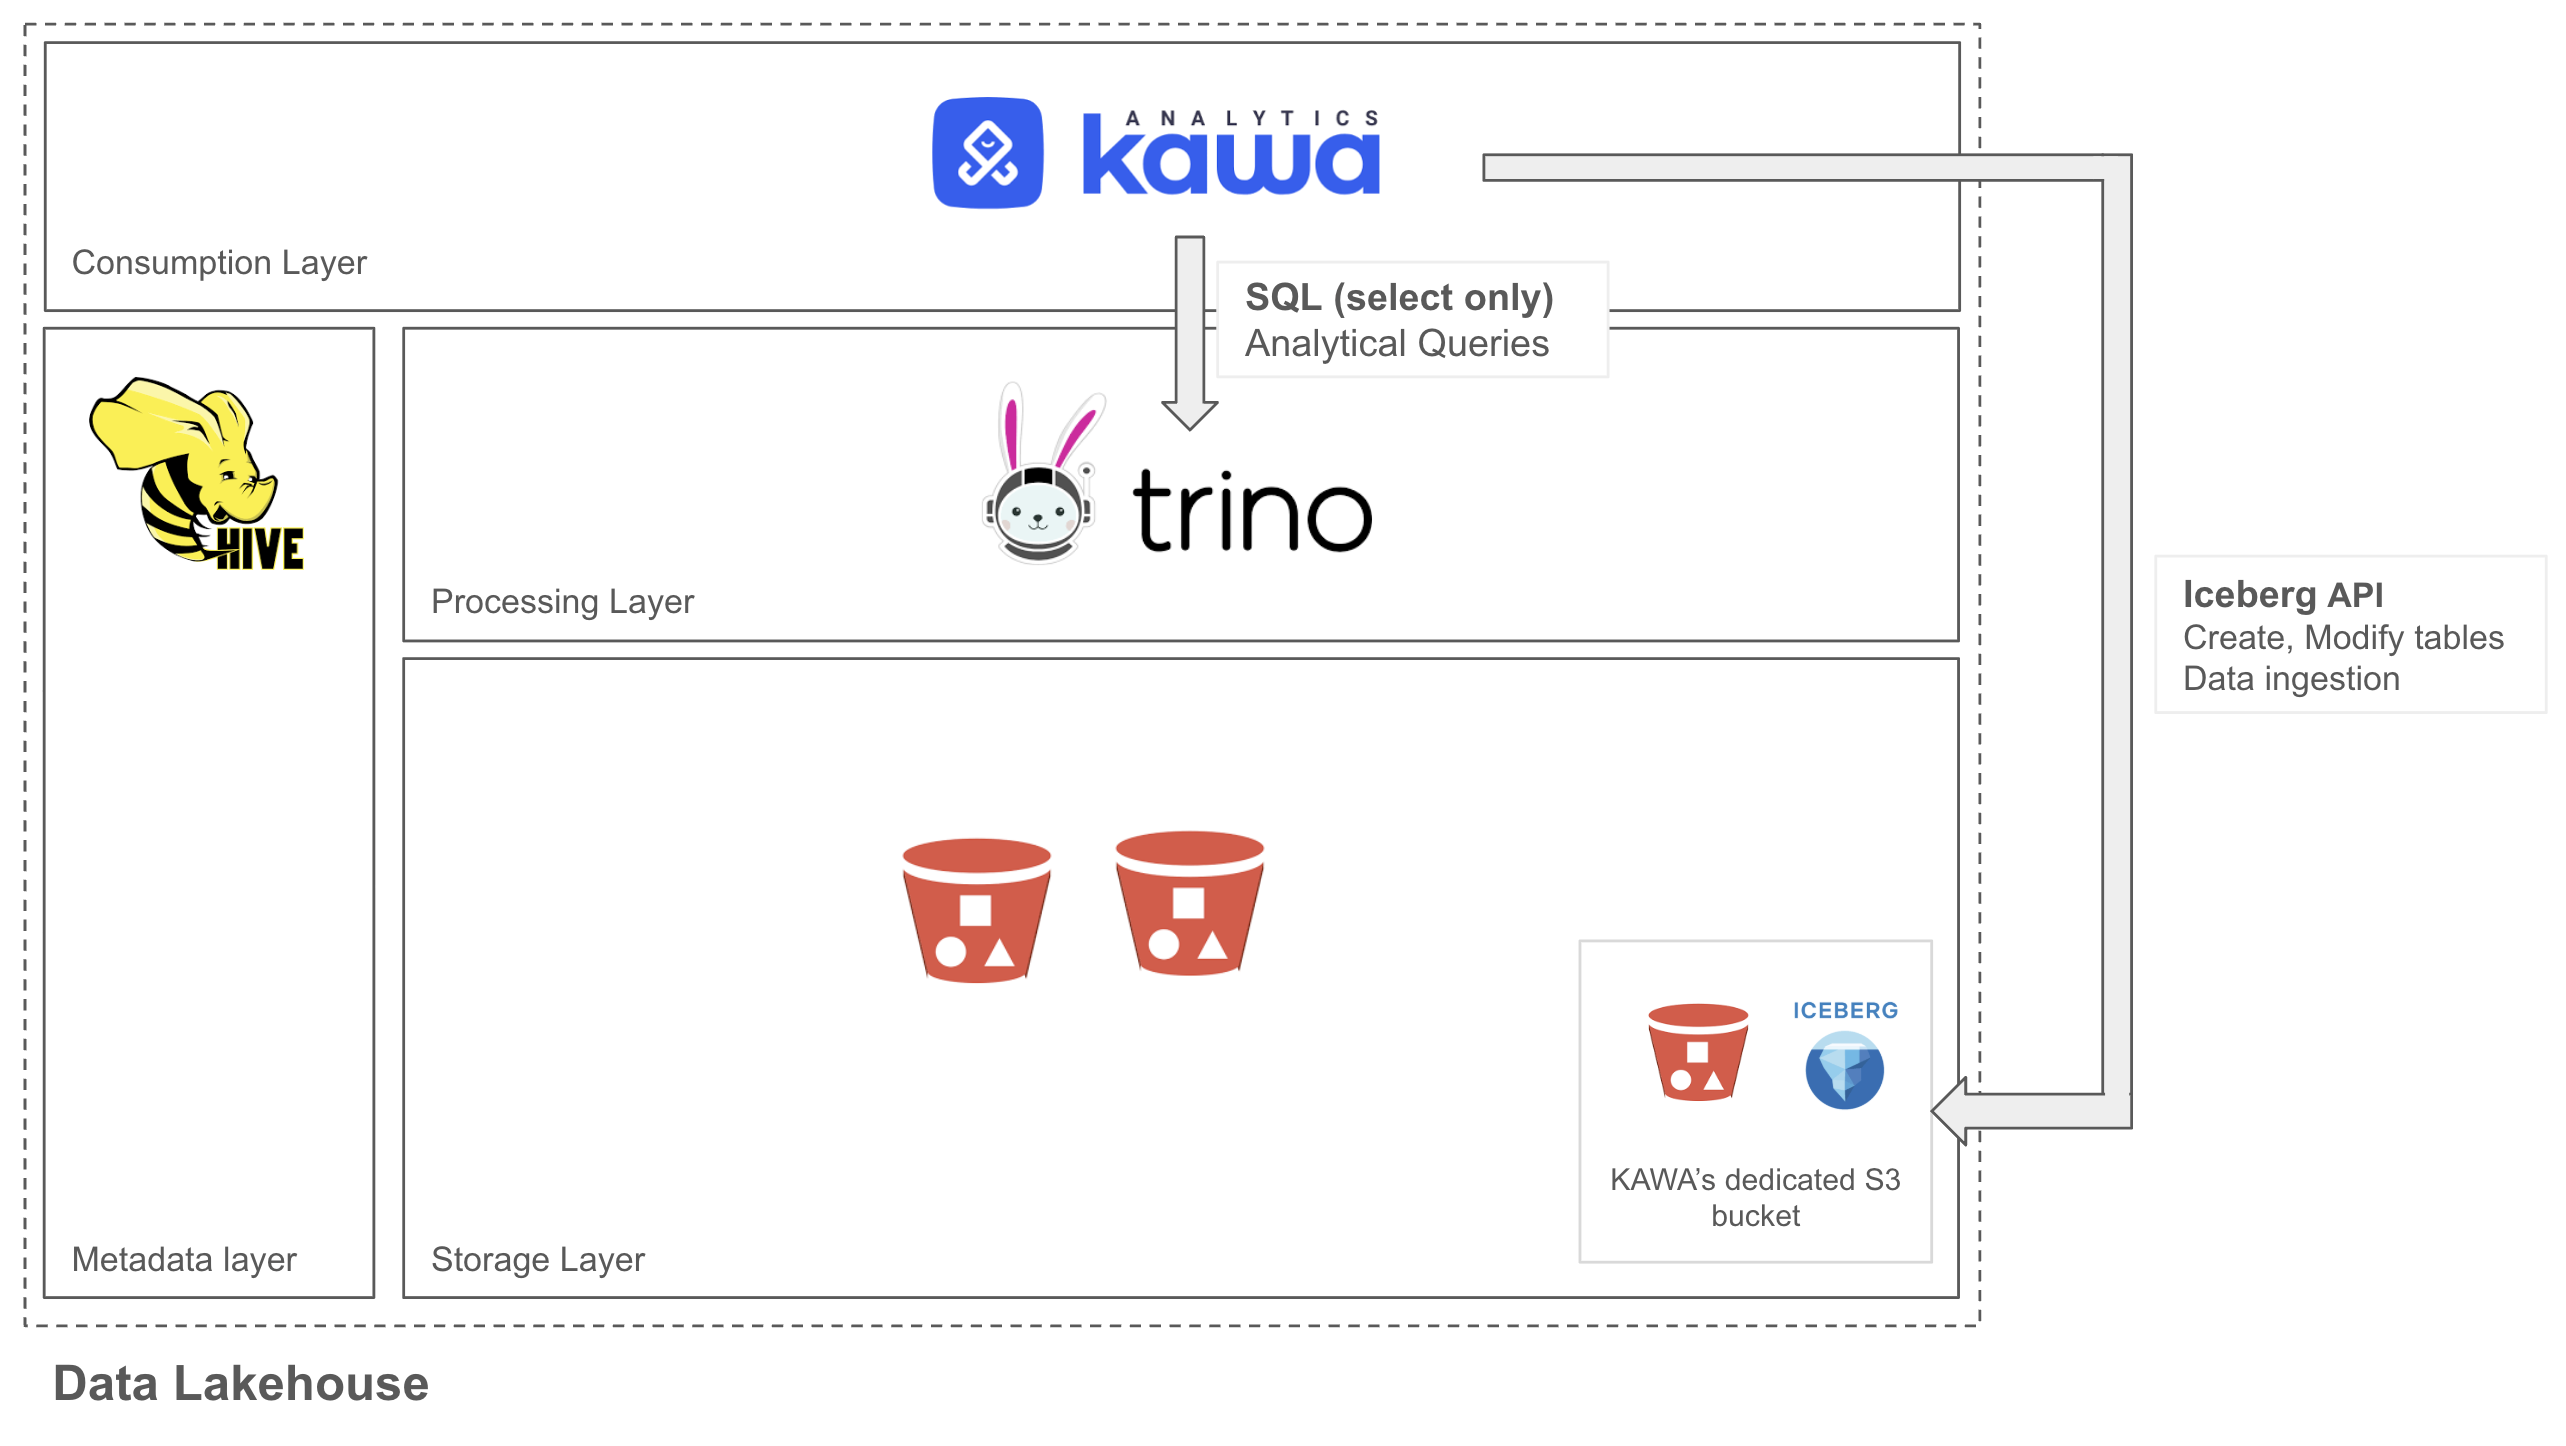
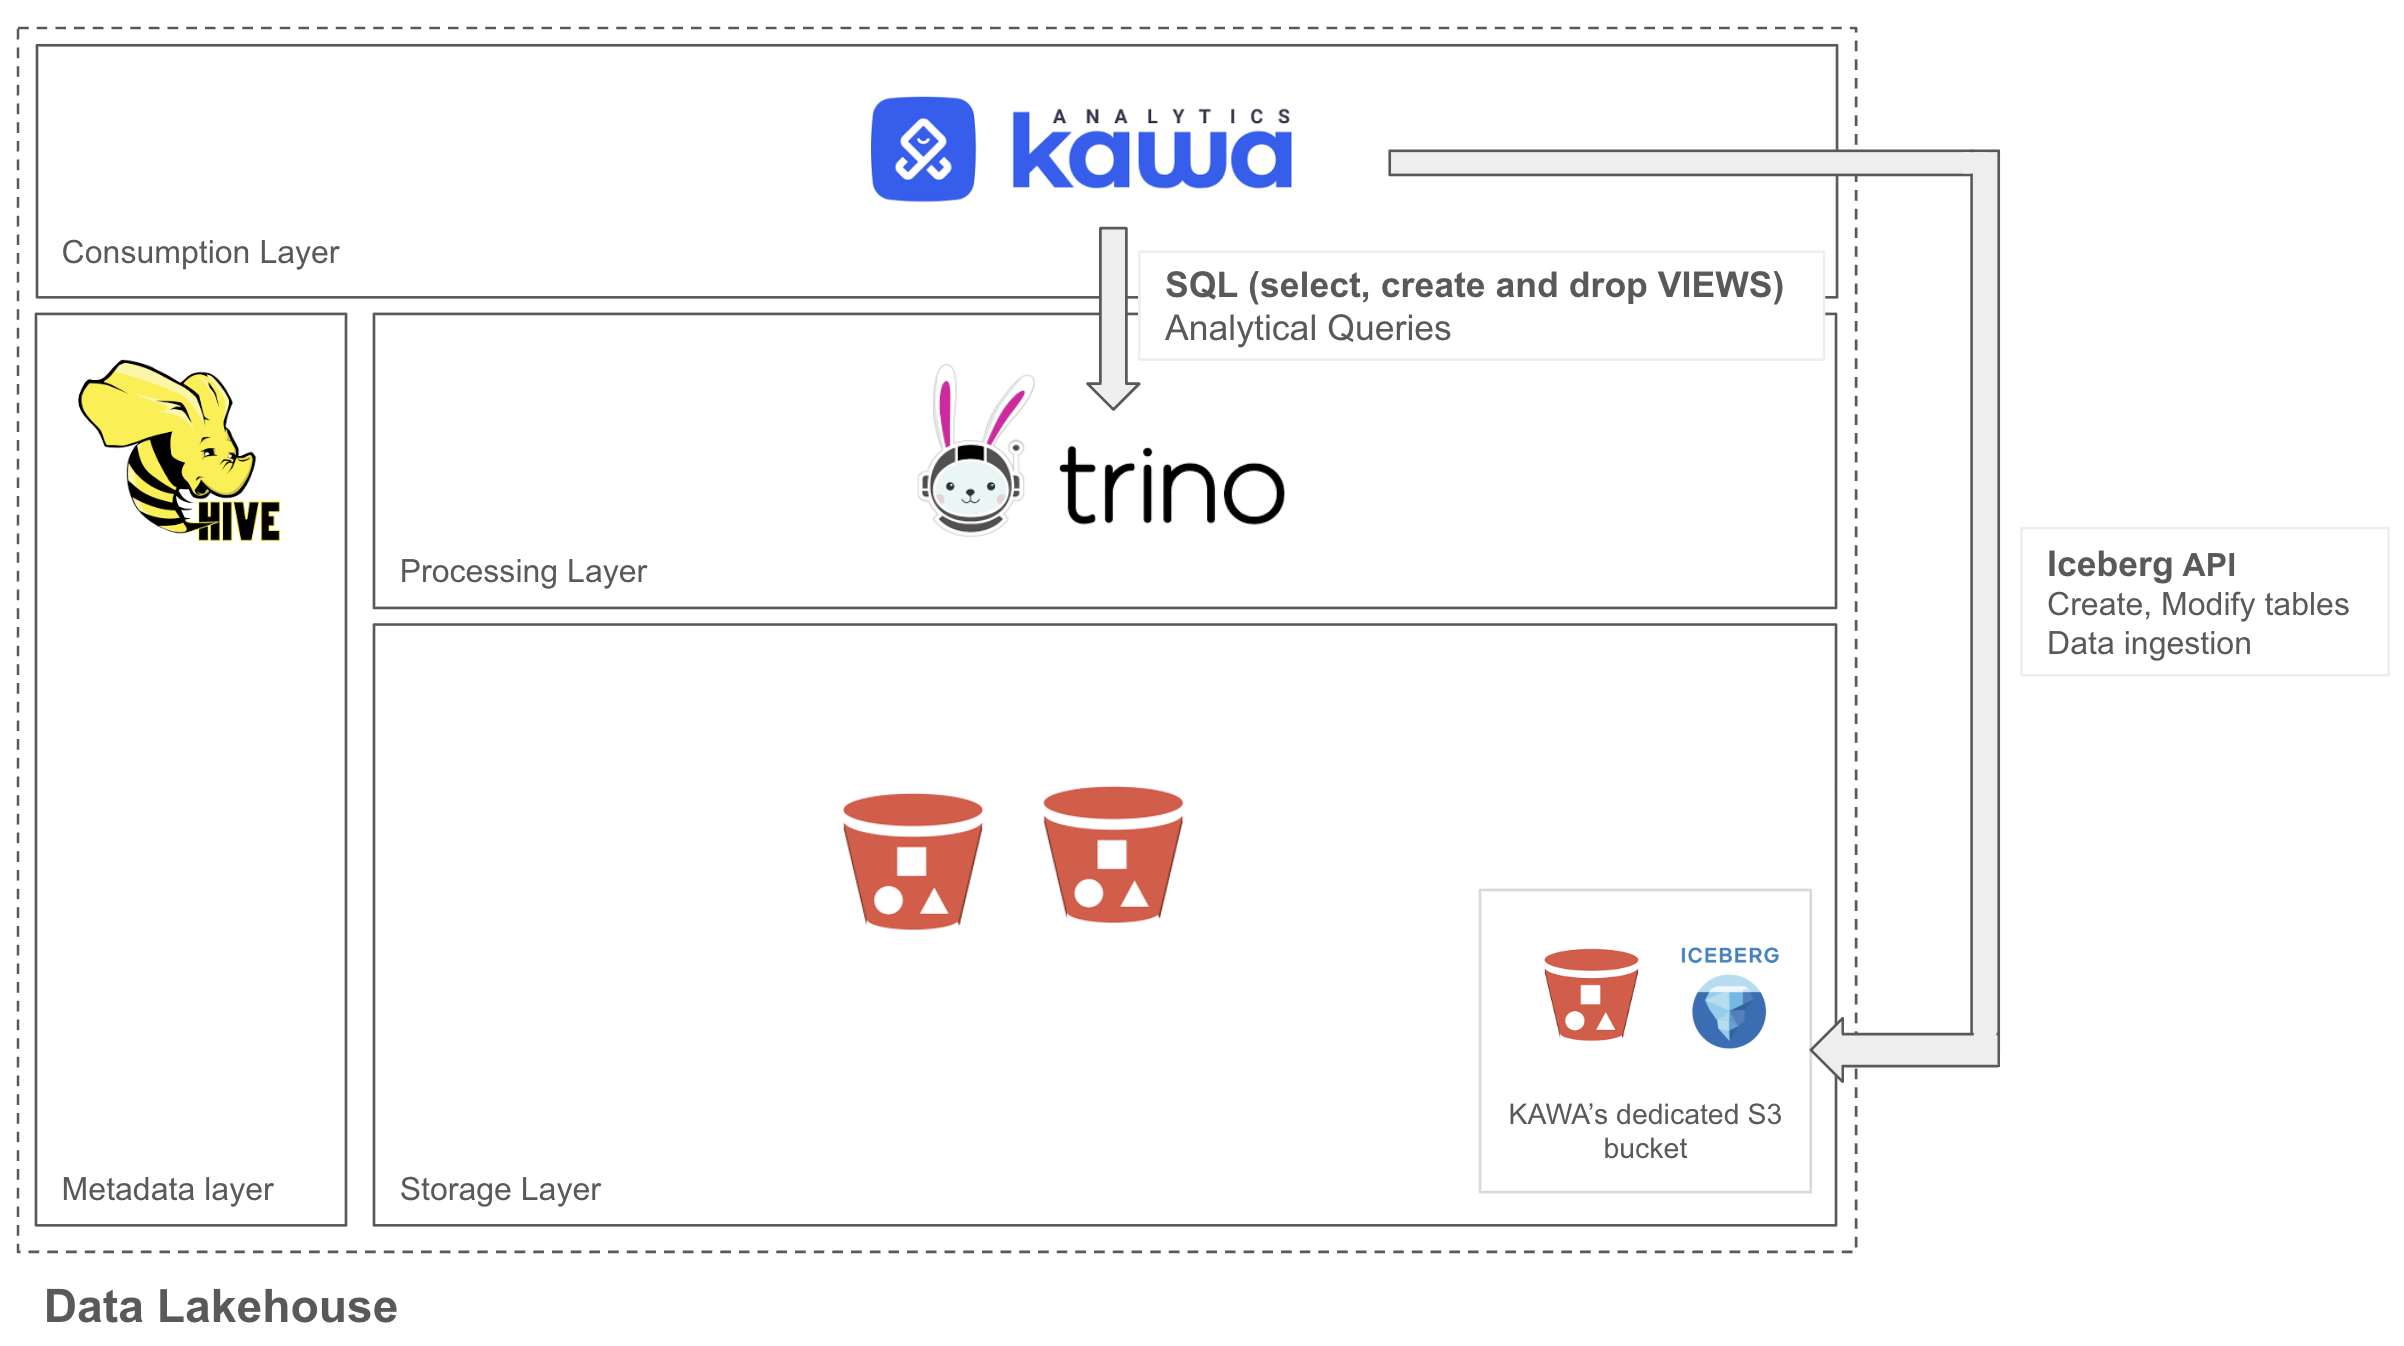
Update requirements for Trino user

diff --git a/10_01_lakehouse.md b/10_01_lakehouse.md
@@ -26,7 +26,7 @@ This guide supposes the following prerequisites:
 
 - Working instance of a hive metastore
 - An existing S3 bucket with a R/W account for KAWA
-- A Trino instance with a Read only account for KAWA
+- A Trino instance with a Read only account for KAWA + CREATE and DROP views in a catalogue managed by KAWA.
 
 ## 2.1 Configuring Trino
 
